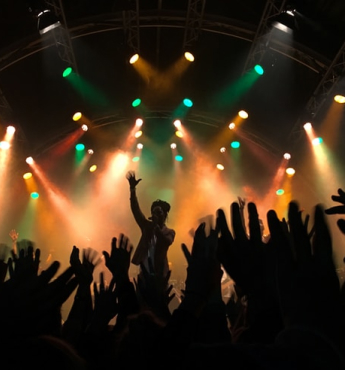
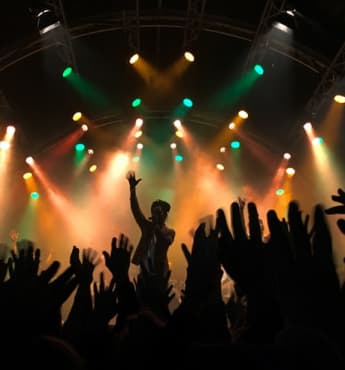
Compressed all images

diff --git a/css/style.min.css b/css/style.min.css
@@ -1,1 +1,1 @@
-*{box-sizing:border-box}:root{scroll-behavior:smooth}html{font-size:16px}body{margin:0;font-size:16px;color:#222;line-height:1.53;font-weight:400;font-family:"Raleway",sans-serif;overflow-x:hidden}body.no-scroll{overflow:hidden}h1,h2,h3,h4,h5,h6{margin:0;font-family:"Montserrat",sans-serif;text-transform:capitalize;font-weight:700}h1{font-size:72px}h2{font-size:34px}h3{font-size:24px;font-weight:800}h4{font-size:24px;font-family:"Raleway",sans-serif}p{margin:0}ul,ol{margin:0;padding:0;list-style:none}a{text-decoration:none;display:inline-block;color:#fff}img{width:100%;display:block;object-fit:cover;height:100%}button{cursor:pointer;box-shadow:none;border:none}input,textarea{color:inherit;font-size:inherit;font-weight:inherit;font-family:inherit}@media(max-width: 1000px){body{font-size:15px}h1{font-size:60px}h2{font-size:30px}h3{font-size:21px}h4{font-size:20px}}@media(max-width: 600px){h1{font-size:35px;line-height:1.3}h2{font-size:25px}h3{font-size:18px}h4{font-size:16px}}@media(max-width: 400px){body{font-size:14px}}@font-face{font-family:"icomoon";src:url("../fonts/icomoon.woff") format("woff");font-weight:normal;font-style:normal;font-display:block}[class^=icon-],[class*=" icon-"]{font-family:"icomoon" !important;font-style:normal;font-weight:normal;font-variant:normal;text-transform:none;line-height:1;-webkit-font-smoothing:antialiased;-moz-osx-font-smoothing:grayscale}.icon-Email:before{content:"";color:#ffa3a3}.icon-Facebook:before{content:"";color:#fff}.icon-Instagram:before{content:"";color:#fff}.icon-Linkedin:before{content:"";color:#fff}.icon-Map-Pin:before{content:"";color:#ffa3a3}.icon-Phone:before{content:"";color:#ffa3a3}.icon-Twitter:before{content:"";color:#fff}.icon-Play:before{content:""}.icon-folk:before{content:"";color:#fc5252}.icon-instrumental:before{content:"";color:#381ddb}.icon-jazz:before{content:"";color:#84c4ff}.icon-pop:before{content:"";color:#db841d}.icon-rock:before{content:"";color:#c00096}.container{max-width:1200px;margin:0 auto;padding:0 15px}.btn{transition:.1s;min-height:3.5rem;border-radius:8px;background:#381ddb;box-shadow:0px 10px 30px 0px rgba(56,29,219,.2);padding:0 2.125em;color:#fff;font-family:"Montserrat",sans-serif;font-size:inherit;font-weight:700}.btn--white{background:#fff;color:#381ddb;line-height:3.5}.btn--arrow{margin-left:auto;min-height:3.75em;display:flex;gap:12px;align-items:center}.btn--arrow span{width:1.5em;height:1.5em;background:url(../icons/arrow.svg)}.btn--orange{background:#fc5252}.btn--video{padding:0 0 0 4.75rem;font-size:1.25rem;font-weight:800;background:rgba(0,0,0,0) url(../icons/Play.svg) left center/contain no-repeat}.btn--transparent{background:rgba(0,0,0,0);color:#381ddb;box-shadow:none;border:1px solid #381ddb}.btn--transparent:hover{background:#381ddb;color:#fff}.btn--form{width:100%;margin-top:10px}.btn:active{transform:scale(0.99)}.btn--schedule{color:#000;padding:0 2em 0 0;min-height:1.5em;box-shadow:none;background:rgba(0,0,0,0) url(../icons/schedule/Play_black.svg) right/contain no-repeat}.btn--schedule--mobile{display:none}.btn--red{color:#fc5252;background:url(../icons/schedule/Live\ Camera.svg) right/contain no-repeat}.btn--clock{background:url(../../icons/schedule/Clock.svg) right/contain no-repeat}@media(max-width: 900px){.btn--schedule{display:none}.btn--schedule-mobile{display:block;margin-right:auto}}@media(min-width: 901px){.btn--schedule-mobile{display:none}}@media(max-width: 768px){.btn--white{box-shadow:none}}@media(max-width: 500px){.btn{min-height:3rem}.btn--orange{padding:0 1rem}.btn--video{font-size:.9rem;padding-left:3rem}.btn--schedule-mobile{font-size:12px;background-size:18px}}@keyframes rotation{100%{transform:rotate(360deg)}}.menu--footer .menu__list{gap:30px}.menu__list{display:flex;align-items:center;gap:40px}.menu__link{text-transform:uppercase;font-size:14px;font-family:Montserrat}.menu__item--dropdown{position:relative;cursor:pointer;padding-right:16px}.menu__item--dropdown::after{content:"";width:8px;height:8px;background:url(../icons/arrow-down.svg);position:absolute;top:9px;right:0;transition:.2s}.menu__item--dropdown:hover .dropdown{visibility:visible;opacity:1}.menu__item--dropdown:hover::after{transform:rotateX(180deg)}.dropdown{background:#fff;position:absolute;width:max-content;min-width:86px;border-radius:7px;overflow:hidden;visibility:hidden;opacity:0;transition:.2s}.dropdown__link{color:#381ddb;padding:3px 5px;width:100%;transition:.2s}.dropdown__link:hover{background:#e8e8e8}@media(max-width: 1000px){.menu__list{gap:20px}}@media(max-width: 768px){.menu--header{background:#321ac5;position:fixed;top:0;right:-100%;height:100vh;width:50%;transition:.4s}.menu--header.active{right:0}.menu--header .menu__list{display:flex;flex-direction:column;align-items:flex-end;gap:45px;height:100vh;justify-content:center;padding-right:30px}.menu--header .menu__link{text-transform:uppercase;font-size:17px}.menu__item--dropdown{padding:0}.menu__item--dropdown:hover .dropdown{visibility:hidden;opacity:0}.menu__item--dropdown::after{content:none}}.burger{display:none}.burger.active span:nth-child(1){transform:rotate(-45deg) translate(0px, 5px)}.burger.active span:nth-child(2){display:none}.burger.active span:nth-child(3){transform:rotate(45deg) translate(0px, -5px)}.burger span{transition:.2s;display:block;width:26px;height:3px;background:#fff;margin-bottom:4px}.burger span:last-child{margin:0}@media(max-width: 768px){.burger{display:block;cursor:pointer}}.overlay{display:none;width:50%;height:100vh;position:fixed;top:0;left:-100%;background:rgba(0,0,0,.4941176471);transition:.4s}.overlay.active{left:0}@media(max-width: 768px){.overlay{display:block}}.socials{font-size:30px;display:flex;gap:30px}.socials__link{display:flex;transition:.2s}.socials__link:hover{transform:scale(1.2);transition:.2s}.header{position:absolute;top:0;left:0;width:100%;padding:32px 0;z-index:2}.header__wrapper{display:flex;justify-content:space-between;align-items:center;gap:25px}@media(max-width: 768px){.header{padding:15px 0;position:fixed;transition:.3s}.logo{width:110px}}.promo{background:url(../images/promo/promo-bg.webp) center center/cover no-repeat;text-align:center;color:#fff;padding:225px 0 53px;height:100vh;position:relative}.promo__wrapper{padding:0 15px;max-width:970px;width:100%;margin:0 auto;position:absolute;top:45%;left:50%;transform:translate(-50%, -50%)}.promo__title-decor{color:#ffa3a3}.promo__text{font-size:24px;margin:40px 0}.promo__inner{display:flex;justify-content:center;gap:40px}.promo__timer{position:absolute;bottom:53px;left:50%;transform:translateX(-50%);font-family:Montserrat;font-size:144px;font-weight:700;line-height:normal;-webkit-text-stroke:2px rgba(255,255,255,.5);color:rgba(0,0,0,0);max-width:1450px;width:100%}.promo__timer-value{position:absolute;bottom:0}.promo__timer-value--days{left:0;padding-left:15px}.promo__timer-value--hours{left:26%}.promo__timer-value--minutes{right:24%}.promo__timer-value--seconds{right:0;padding-right:15px}@media(max-width: 1300px){.promo__timer{font-size:11vw}}@media(max-width: 600px){.promo__text{font-size:20px}.promo__inner{gap:30px}}.category{overflow:hidden;padding:120px 0;position:relative}.category::after{content:"";position:absolute;width:100%;height:72%;top:170px;right:50%;transform:translateX(50%);background:url(../images/categories/categories-decor.svg) center center/contain no-repeat}.category__title{margin-bottom:60px}.category__title span{color:#381ddb}.category__slider{margin-left:-25px;margin-right:-25px}.category__slide{border-radius:24px;padding:90px 20px 36px 60px;transition:.1s}.category__slide-icon{display:inline-block;margin-bottom:30px;font-size:40px}.category__slide:hover{color:#fff}.category__slide:hover .category__slide-icon{transform:rotate(360deg);transition:.7s}.category__slide:hover .category__slide-icon::before{color:#fff}.category__slide-inner{width:190px}.category__slide--orange{background:rgba(219,132,29,.1)}.category__slide--orange:hover{background:#db841d}.category__slide--red{background:rgba(252,82,82,.1)}.category__slide--red:hover{background:#fc5252}.category__slide--red:hover::before{background:url(../icons/swiper/folk_w.svg)}.category__slide--blue{background:rgba(56,29,219,.1)}.category__slide--blue:hover{background:#381ddb}.category__slide--blue:hover::before{background:url(../icons/swiper/instrumental_w.svg)}.category__slide--pink{background:rgba(192,0,150,.1)}.category__slide--pink:hover{background:#c00096}.category__slide--pink:hover::before{background:url(../icons/swiper/rock_w.svg)}.category__slide--light-blue{background:rgba(132,196,255,.1)}.category__slide--light-blue:hover{background:#84c4ff}.category__slide--light-blue:hover::before{background:url(../icons/swiper/jazz_w.svg)}.category__slide-icon{max-width:40px;margin-bottom:30px}.category__slide-title{margin-bottom:20px}@media(max-width: 1200px){.category::after{background:none}}@media(max-width: 1000px){.category{padding:90px 0}}@media(max-width: 600px){.category__slider{margin:0;padding-left:15px}}@media(max-width: 420px){.category__slide{padding:50px 20px 30px 30px}}.about{padding:120px 0 155px}.about__wrapper{display:flex;gap:140px;align-items:center;position:relative}.about__wrapper::after{content:"";position:absolute;width:181px;height:167px;bottom:-120px;left:-296px;background:url(../images/about/music-decor.svg) center center/contain no-repeat}.about__box{position:relative;max-width:460px;width:100%}.about__img{border-radius:24px}.about__img--top{position:absolute;right:-15.2%;bottom:-15.2%}.about__inner{max-width:570px}.about__title{margin-bottom:32px}.about__text{margin-bottom:80px}@media(max-width: 1000px){.about{padding:90px 0 116px}}@media(max-width: 900px){.about__wrapper{flex-direction:column-reverse;gap:60px}.about__inner{max-width:654px}.about__text{text-align:justify}.about__box{max-width:350px}.about__button{display:flex;justify-content:flex-end}}@media(max-width: 600px){.about__box{max-width:300px}.about__img--top{right:-8%;bottom:-8%}}.singers{overflow:hidden;padding:155px 0 160px}.singers__wrapper{display:flex;align-items:center;gap:30px;position:relative}.singers__wrapper::after{z-index:-1;content:"";position:absolute;width:157%;height:103%;bottom:-26%;right:-30%;background:url(../../images/singers/singers-decor.svg) center center/contain no-repeat}.singers__inner{max-width:470px}.singers__title{margin-bottom:32px}.singers__text{margin-bottom:80px}.singers__box{transform:translateY(35px)}.singers__box-inner{display:flex}.singers__img{border-radius:24px}.singers__img--1{transform:translate(-42px, 25px)}.singers__img--2{transform:translate(-115px, 0px)}.singers__img--3{transform:translate(-51px, -41px)}.singers__img--4{transform:translate(-124px, -65px)}@media(max-width: 1000px){.singers{padding:116px 0 120px}}@media(max-width: 900px){.singers__wrapper{flex-direction:column}.singers__wrapper picture{transform:none}.singers__inner{max-width:654px}.singers__text{text-align:justify}.singers__button{text-align:-webkit-right}.singers__box-inner{margin-bottom:30px;gap:30px}}@media(max-width: 400px){.singers__box-inner{margin-bottom:20px;gap:20px}}.schedule{padding:160px 0 120px;background:linear-gradient(180deg, rgba(56, 29, 219, 0.05) 0%, rgba(56, 29, 219, 0) 100%)}.schedule__title{margin-bottom:60px}.schedule__tabs{display:grid;grid-template-columns:1fr 1fr 1fr;margin-bottom:40px;gap:30px}.schedule__tab{cursor:pointer;border-bottom:4px solid rgba(56,29,219,.1);font-family:Montserrat}.schedule__tab-day{font-size:24px;font-weight:800;opacity:.5}.schedule__tab-date{font-size:16px;font-weight:700;opacity:.2}.schedule__tab.active{cursor:default;border-color:#381ddb}.schedule__tab.active .schedule__tab-day{color:#381ddb;opacity:1}.schedule__tab.active .schedule__tab-date{color:#381ddb;opacity:.5}.schedule .box{width:300px;transition:.5s;background:#008b8b;height:80px}.schedule .box:hover{width:500px}.schedule__tabs-content{overflow:hidden;display:flex;border-radius:24px}.schedule__tab-content{transition:.3s;overflow:hidden;border-radius:24px;border:1px solid #e0e0e0;min-width:100%;font-weight:700}.schedule__tab-content-row{display:grid;grid-template-columns:1fr 1.6fr 1.2fr .6fr;gap:30px;align-items:center;padding:40px}.schedule__tab-content-row:first-child{background:rgba(56,29,219,.05);font-size:24px}.schedule__tab-content-row+.schedule__tab-content-row{border-top:1px solid #e0e0e0}.schedule__tab-content-duration{font-weight:400}.schedule__tab-content-speakers{display:flex;flex-direction:column;gap:32px}.schedule__tab-content-speaker{display:flex;gap:10px;align-items:center}.schedule__tab-content-avatar{width:56px;height:56px;border-radius:50%}.schedule__tab-content-location{opacity:.5}.schedule__tab-content-review{display:flex;align-items:center;justify-content:flex-end}@media(max-width: 1000px){.schedule{padding:90px 0 90px}}@media(max-width: 900px){.schedule__tab-content-row{grid-template-columns:.6fr 1.6fr 1fr;gap:15px;padding:10px}.schedule__tab-content-speakers{gap:20px}.schedule__tab-content-avatar{display:none}}@media(max-width: 600px){.schedule__title{margin-bottom:45px}.schedule__tab{border-width:2px}.schedule__tab-day{font-size:21px}.schedule__tab-date{font-size:14px}.schedule__tab-content-row{font-size:12px}.schedule__tab-content-row:first-child{font-size:20px;justify-items:center}}.tickets{padding:120px 0 120px}.tickets__title{text-align:center;margin-bottom:60px}.tickets__wrapper{display:grid;grid-template-columns:repeat(3, 1fr);gap:30px}.tickets__card{padding:30px;text-align:center;box-shadow:0px 20px 100px 0px rgba(34,34,34,.15);border-radius:20px;position:relative;overflow:hidden;max-width:370px;width:100%}.tickets__card:nth-child(odd){margin-left:auto}.tickets__card::before{content:"";position:absolute;top:0;left:0;height:4px;width:100%}.tickets__card--black::before{background:#222}.tickets__card--blue .tickets__card-title,.tickets__card--blue .tickets__card-price{color:#381ddb}.tickets__card--blue::before{background:#381ddb}.tickets__card--orange .tickets__card-title,.tickets__card--orange .tickets__card-price{color:#fc5252}.tickets__card--orange::before{background:#fc5252}.tickets__card-title{margin-bottom:15px}.tickets__card-price{font-family:Montserrat;font-size:60px;font-weight:700;line-height:normal}.tickets__card-benefits{margin:30px 0}.tickets__card-benefit{margin-bottom:15px}.tickets__card-benefit--disabled{opacity:.5}@media(max-width: 1100px){.tickets__wrapper{grid-template-columns:repeat(2, 1fr)}}@media(max-width: 1000px){.tickets{padding:90px 0 90px}}@media(max-width: 700px){.tickets__wrapper{grid-template-columns:1fr}.tickets__card{margin:0 auto}}.sponsors{text-align:center;padding:120px 0}.sponsors__title{margin-bottom:60px}.sponsors__img{width:58%;height:auto}.sponsors__wrapper{display:grid;grid-template-columns:repeat(4, 1fr);justify-items:center;align-items:center;margin-bottom:80px;row-gap:60px}@media(max-width: 1000px){.sponsors{padding:90px 0}}@media(max-width: 700px){.sponsors__wrapper{row-gap:30px}.sponsors__img{width:70%}}.testimonials{padding:120px 0 240px}.testimonials__title{text-align:center;margin-bottom:61px}.testimonials__slide{text-align:center;opacity:.3;transition:.1s;padding-top:10px}.testimonials .swiper-slide-active .testimonials__slide{opacity:1;transform:translateY(-10px)}.testimonials__slider .swiper-pagination{display:flex;justify-content:center;align-items:center}.testimonials__slider .swiper-pagination-bullet-active{width:10px;height:10px;background:#381ddb;transition:.2s}.testimonials__slide-head{background:rgba(34,34,34,.03);padding:50px 60px 110px}.testimonials__slide-text{position:relative;opacity:.7}.testimonials__slide-text::before,.testimonials__slide-text::after{content:"";position:absolute;width:30px;height:30px;background:url(../icons/testimonials/Quotes_start.svg)}.testimonials__slide-text::before{top:-30px;left:-30px}.testimonials__slide-text::after{bottom:-30px;right:-30px;transform:rotate(180deg)}.testimonials__slide-footer{display:flex;flex-direction:column;align-items:center;transform:translateY(-55px)}.testimonials__slide-avatar{border-radius:50%;margin-bottom:20px;width:120px;height:120px}.testimonials__slide-name{font-family:"Montserrat";font-size:20px;font-weight:800;line-height:1.4;margin-bottom:8px;width:120%}.testimonials__slide-contact{color:#381ddb}@media(max-width: 1500px){.testimonials__slide-head{padding:40px 45px 80px}}@media(max-width: 1000px){.testimonials{padding:90px 0 180px}.testimonials__slide-text::before,.testimonials__slide-text::after{width:20px;height:20px;background-size:contain}.testimonials__slide-text::before{top:-5px;left:-15px}.testimonials__slide-text::after{bottom:-5px;right:-15px}.testimonials__slide-avatar{width:90px;height:90px}}@media(max-width: 800px){.testimonials__slide-head{padding:20px 20px 60px}}@media(min-width: 500px){.testimonials__slider .swiper-pagination{display:none}}.gallery{padding:160px 0 240px;background:linear-gradient(180deg, rgba(252, 82, 82, 0.05) 0%, rgba(252, 82, 82, 0) 100%)}.gallery__title{margin-bottom:60px;position:relative}.gallery__title::before{content:"";position:absolute;width:431px;height:431px;top:-160px;left:130px;background:url(../images/gallery/instagram.svg)}.gallery__slider .swiper-slide-prev .gallery__slide,.gallery__slider .swiper-slide-active .gallery__slide,.gallery__slider .swiper-slide-next .gallery__slide{opacity:1}.gallery__slider .swiper-button-prev,.gallery__slider .swiper-button-next{transform:translateX(-5vw);top:9vw;width:56px;height:56px;border-radius:50%;background:#fff url(../images/gallery/Arrow.svg) center center/34px no-repeat}.gallery__slider .swiper-button-prev::after,.gallery__slider .swiper-button-next::after{content:none}.gallery__slider .swiper-button-prev{rotate:180deg}.gallery__slide{opacity:.5;transition:.2s}.gallery__slide-inner{display:flex;gap:40px;margin-bottom:8px}.gallery__slide-media{margin-bottom:24px;height:18.5vw}.gallery__slide-number{padding-left:32px;font-family:Montserrat;font-weight:700}.gallery__slide-number--heart{background:url(../images/gallery/Heart.svg) left center/contain no-repeat}.gallery__slide-number--chat{background:url(../images/gallery/Chat.svg) left center/contain no-repeat}.gallery__slide-text{margin-bottom:8px}.gallery__slide-tags{opacity:.5}@media(max-width: 1000px){.gallery__slide-media{height:23vw}.gallery .swiper-button-prev,.gallery .swiper-button-next{transform:translateX(-9vw);top:13vw;width:4.47vw;height:4.47vw;background-size:3.1vw}}@media(max-width: 800px){.gallery__slide-media{height:35vw}.gallery .swiper-button-prev,.gallery .swiper-button-next{transform:translateX(-7vw);top:19vw}.gallery__slider .swiper-slide-prev .gallery__slide,.gallery__slider .swiper-slide-next .gallery__slide{opacity:.5}}@media(max-width: 600px){.gallery__title{margin-bottom:30px}.gallery__title::before{width:290px;height:290px;top:-160px;left:20px;background-size:contain}.gallery__slide-inner{gap:10px}.gallery__slide-number{padding-left:20px;font-size:10px}}@media(max-width: 450px){.gallery__slide-media{height:55vw}.gallery .swiper-button-prev,.gallery .swiper-button-next{transform:translateX(-1vw);top:29vw;width:6.47vw;height:6.47vw;background-size:4.1vw}}.contacts__wrapper{display:flex;height:34.5vw}.contacts__left{display:flex;align-items:center;background:#381ddb url(../images/contacts/shape.svg) right bottom/224px no-repeat;width:44%;padding:20px 22px 88px 57px}.contacts__head{color:#fff;margin-bottom:80px}.contacts__text{opacity:.7;font-size:24px}.contacts__list{font-family:Montserrat;font-size:16px;font-weight:700}.contacts__item{margin-bottom:40px;display:flex;align-items:center;gap:8px}.contacts__font{font-size:24px}.contacts__right{width:56%;background:rgba(34,34,34,.03) url(../images/contacts/shape_right.svg) right 56px bottom/72px no-repeat;padding:40px 93px;display:flex;align-items:center}.contacts__form{max-width:570px;width:100%}.contacts__form-title{margin-bottom:40px}.contacts__form-group{display:flex;flex-direction:column;margin-bottom:30px}.contacts__form-group:has(.contacts__form-input:focus) .contacts__form-label{color:#381ddb}.contacts__form-label{font-size:12px;font-weight:700;opacity:.7}.contacts__form-input{border:none;border-bottom:1px solid #e0e0e0;height:32px;outline:none;background:rgba(0,0,0,0)}.contacts__form-input--message{resize:none;height:104px}.contacts__form-input:focus{border-bottom:1px solid #381ddb}@media(max-width: 1600px){.contacts__wrapper{height:auto}}@media(max-width: 1300px){.contacts__left,.contacts__right{width:50%}.contacts__right{background:rgba(34,34,34,.03)}}@media(max-width: 1000px){.contacts__wrapper{flex-direction:column}.contacts__left,.contacts__right{width:100%;padding:40px 50px}.contacts__left{background-size:15%}.contacts__item{margin-bottom:30px}}.footer{background:#222;padding:40px 0 30px}.footer .logo{margin-bottom:55px}.footer__wrapper{display:flex;justify-content:space-between;align-items:center}.footer__inner{max-width:440px;width:100%;display:flex;justify-content:space-between;align-items:center}.footer__copy{color:#fff;opacity:.3}@media(max-width: 1000px){.footer{padding:25px 35px}.footer .menu__list{margin-bottom:20px}.footer__wrapper{flex-direction:column;align-items:flex-start}.footer__inner{max-width:100%}.socials{margin-left:-7px}}@media(max-width: 600px){.footer .logo{margin-bottom:35px}.footer__inner,.footer .menu__list{flex-direction:column;align-items:flex-start;gap:10px}.footer .menu__link{padding:5px 0}.footer__inner .socials{margin-bottom:10px;gap:40px}}.wrapper{background:#ccc;border:2px solid #000;padding:10px;max-width:1000px;margin:0 auto;display:grid;grid-template-columns:1fr 1fr 1fr;grid-auto-rows:minmax(150px, auto);gap:10px}.item{background:#ff8c00;border:2px solid #000;display:flex;align-items:center;justify-content:center;font-size:30px}.item:nth-child(2){background:red}.item--4{grid-column:1/3;grid-row:2/4}/*# sourceMappingURL=style.min.css.map */
+*{box-sizing:border-box}:root{scroll-behavior:smooth}html{font-size:16px}body{margin:0;font-size:16px;color:#222;line-height:1.53;font-weight:400;font-family:"Raleway",sans-serif;overflow-x:hidden}body.no-scroll{overflow:hidden}h1,h2,h3,h4,h5,h6{margin:0;font-family:"Montserrat",sans-serif;text-transform:capitalize;font-weight:700}h1{font-size:72px}h2{font-size:34px}h3{font-size:24px;font-weight:800}h4{font-size:24px;font-family:"Raleway",sans-serif}p{margin:0}ul,ol{margin:0;padding:0;list-style:none}a{text-decoration:none;display:inline-block;color:#fff}img{width:100%;display:block;object-fit:cover;height:100%}button{cursor:pointer;box-shadow:none;border:none}input,textarea{color:inherit;font-size:inherit;font-weight:inherit;font-family:inherit}@media(max-width: 1000px){body{font-size:15px}h1{font-size:60px}h2{font-size:30px}h3{font-size:21px}h4{font-size:20px}}@media(max-width: 600px){h1{font-size:35px;line-height:1.3}h2{font-size:25px}h3{font-size:18px}h4{font-size:16px}}@media(max-width: 400px){body{font-size:14px}}@font-face{font-family:"icomoon";src:url("../fonts/icomoon.woff") format("woff");font-weight:normal;font-style:normal;font-display:block}[class^=icon-],[class*=" icon-"]{font-family:"icomoon" !important;font-style:normal;font-weight:normal;font-variant:normal;text-transform:none;line-height:1;-webkit-font-smoothing:antialiased;-moz-osx-font-smoothing:grayscale}.icon-Email:before{content:"";color:#ffa3a3}.icon-Facebook:before{content:"";color:#fff}.icon-Instagram:before{content:"";color:#fff}.icon-Linkedin:before{content:"";color:#fff}.icon-Map-Pin:before{content:"";color:#ffa3a3}.icon-Phone:before{content:"";color:#ffa3a3}.icon-Twitter:before{content:"";color:#fff}.icon-Play:before{content:""}.icon-folk:before{content:"";color:#fc5252}.icon-instrumental:before{content:"";color:#381ddb}.icon-jazz:before{content:"";color:#84c4ff}.icon-pop:before{content:"";color:#db841d}.icon-rock:before{content:"";color:#c00096}.container{max-width:1200px;margin:0 auto;padding:0 15px}.btn{transition:.1s;min-height:3.5rem;border-radius:8px;background:#381ddb;box-shadow:0px 10px 30px 0px rgba(56,29,219,.2);padding:0 2.125em;color:#fff;font-family:"Montserrat",sans-serif;font-size:inherit;font-weight:700}.btn--white{background:#fff;color:#381ddb;line-height:3.5}.btn--arrow{margin-left:auto;min-height:3.75em;display:flex;gap:12px;align-items:center}.btn--arrow span{width:1.5em;height:1.5em;background:url(../icons/arrow.svg)}.btn--orange{background:#fc5252}.btn--video{padding:0 0 0 4.75rem;font-size:1.25rem;font-weight:800;background:rgba(0,0,0,0) url(../icons/Play.svg) left center/contain no-repeat}.btn--transparent{background:rgba(0,0,0,0);color:#381ddb;box-shadow:none;border:1px solid #381ddb}.btn--transparent:hover{background:#381ddb;color:#fff}.btn--form{width:100%;margin-top:10px}.btn:active{transform:scale(0.99)}.btn--schedule{color:#000;padding:0 2em 0 0;min-height:1.5em;box-shadow:none;background:rgba(0,0,0,0) url(../icons/schedule/Play_black.svg) right/contain no-repeat}.btn--schedule--mobile{display:none}.btn--red{color:#fc5252;background:url(../icons/schedule/Live\ Camera.svg) right/contain no-repeat}.btn--clock{background:url(../../icons/schedule/Clock.svg) right/contain no-repeat}@media(max-width: 900px){.btn--schedule{display:none}.btn--schedule-mobile{display:block;margin-right:auto}}@media(min-width: 901px){.btn--schedule-mobile{display:none}}@media(max-width: 768px){.btn--white{box-shadow:none}}@media(max-width: 500px){.btn{min-height:3rem}.btn--orange{padding:0 1rem}.btn--video{font-size:.9rem;padding-left:3rem}.btn--schedule-mobile{font-size:12px;background-size:18px}}@keyframes rotation{100%{transform:rotate(360deg)}}.menu--footer .menu__list{gap:30px}.menu__list{display:flex;align-items:center;gap:40px}.menu__link{text-transform:uppercase;font-size:14px;font-family:Montserrat}.menu__item--dropdown{position:relative;cursor:pointer;padding-right:16px}.menu__item--dropdown::after{content:"";width:8px;height:8px;background:url(../icons/arrow-down.svg);position:absolute;top:9px;right:0;transition:.2s}.menu__item--dropdown:hover .dropdown{visibility:visible;opacity:1}.menu__item--dropdown:hover::after{transform:rotateX(180deg)}.dropdown{background:#fff;position:absolute;width:max-content;min-width:86px;border-radius:7px;overflow:hidden;visibility:hidden;opacity:0;transition:.2s}.dropdown__link{color:#381ddb;padding:3px 5px;width:100%;transition:.2s}.dropdown__link:hover{background:#e8e8e8}@media(max-width: 1000px){.menu__list{gap:20px}}@media(max-width: 768px){.menu--header{background:#321ac5;position:fixed;top:0;right:-100%;height:100vh;width:50%;transition:.4s}.menu--header.active{right:0}.menu--header .menu__list{display:flex;flex-direction:column;align-items:flex-end;gap:45px;height:100vh;justify-content:center;padding-right:30px}.menu--header .menu__link{text-transform:uppercase;font-size:17px}.menu__item--dropdown{padding:0}.menu__item--dropdown:hover .dropdown{visibility:hidden;opacity:0}.menu__item--dropdown::after{content:none}}.burger{display:none}.burger.active span:nth-child(1){transform:rotate(-45deg) translate(0px, 5px)}.burger.active span:nth-child(2){display:none}.burger.active span:nth-child(3){transform:rotate(45deg) translate(0px, -5px)}.burger span{transition:.2s;display:block;width:26px;height:3px;background:#fff;margin-bottom:4px}.burger span:last-child{margin:0}@media(max-width: 768px){.burger{display:block;cursor:pointer}}.overlay{display:none;width:50%;height:100vh;position:fixed;top:0;left:-100%;background:rgba(0,0,0,.4941176471);transition:.4s}.overlay.active{left:0}@media(max-width: 768px){.overlay{display:block}}.socials{font-size:30px;display:flex;gap:30px}.socials__link{display:flex;transition:.2s}.socials__link:hover{transform:scale(1.2);transition:.2s}.header{position:absolute;top:0;left:0;width:100%;padding:32px 0;z-index:2}.header__wrapper{display:flex;justify-content:space-between;align-items:center;gap:25px}@media(max-width: 768px){.header{padding:15px 0;position:fixed;transition:.3s}.logo{width:110px}}.promo{background:url(../images/promo/promo-bg.webp) center center/cover no-repeat;text-align:center;color:#fff;padding:225px 0 53px;height:100vh;position:relative}.promo__wrapper{padding:0 15px;max-width:970px;width:100%;margin:0 auto;position:absolute;top:45%;left:50%;transform:translate(-50%, -50%)}.promo__title-decor{color:#ffa3a3}.promo__text{font-size:24px;margin:40px 0}.promo__inner{display:flex;justify-content:center;gap:40px}.promo__timer{position:absolute;bottom:53px;left:50%;transform:translateX(-50%);font-family:Montserrat;font-size:144px;font-weight:700;line-height:normal;-webkit-text-stroke:2px rgba(255,255,255,.5);color:rgba(0,0,0,0);max-width:1450px;width:100%}.promo__timer-value{position:absolute;bottom:0}.promo__timer-value--days{left:0;padding-left:15px}.promo__timer-value--hours{left:26%}.promo__timer-value--minutes{right:24%}.promo__timer-value--seconds{right:0;padding-right:15px}@media(max-width: 1300px){.promo__timer{font-size:11vw}}@media(max-width: 600px){.promo{background:url(../images/promo/promo-bg-mobile.webp)}.promo__text{font-size:20px}.promo__inner{gap:30px}}.category{overflow:hidden;padding:120px 0;position:relative}.category::after{content:"";position:absolute;width:100%;height:72%;top:170px;right:50%;transform:translateX(50%);background:url(../images/categories/categories-decor.svg) center center/contain no-repeat}.category__title{margin-bottom:60px}.category__title span{color:#381ddb}.category__slider{margin-left:-25px;margin-right:-25px}.category__slide{border-radius:24px;padding:90px 20px 36px 60px;transition:.1s}.category__slide-icon{display:inline-block;margin-bottom:30px;font-size:40px}.category__slide:hover{color:#fff}.category__slide:hover .category__slide-icon{transform:rotate(360deg);transition:.7s}.category__slide:hover .category__slide-icon::before{color:#fff}.category__slide-inner{width:190px}.category__slide--orange{background:rgba(219,132,29,.1)}.category__slide--orange:hover{background:#db841d}.category__slide--red{background:rgba(252,82,82,.1)}.category__slide--red:hover{background:#fc5252}.category__slide--red:hover::before{background:url(../icons/swiper/folk_w.svg)}.category__slide--blue{background:rgba(56,29,219,.1)}.category__slide--blue:hover{background:#381ddb}.category__slide--blue:hover::before{background:url(../icons/swiper/instrumental_w.svg)}.category__slide--pink{background:rgba(192,0,150,.1)}.category__slide--pink:hover{background:#c00096}.category__slide--pink:hover::before{background:url(../icons/swiper/rock_w.svg)}.category__slide--light-blue{background:rgba(132,196,255,.1)}.category__slide--light-blue:hover{background:#84c4ff}.category__slide--light-blue:hover::before{background:url(../icons/swiper/jazz_w.svg)}.category__slide-icon{max-width:40px;margin-bottom:30px}.category__slide-title{margin-bottom:20px}@media(max-width: 1200px){.category::after{background:none}}@media(max-width: 1000px){.category{padding:90px 0}}@media(max-width: 600px){.category__slider{margin:0;padding-left:15px}}@media(max-width: 420px){.category__slide{padding:50px 20px 30px 30px}}.about{padding:120px 0 155px}.about__wrapper{display:flex;gap:140px;align-items:center;position:relative}.about__wrapper::after{content:"";position:absolute;width:181px;height:167px;bottom:-120px;left:-296px;background:url(../images/about/music-decor.svg) center center/contain no-repeat}.about__box{position:relative;max-width:460px;width:100%}.about__img{border-radius:24px}.about__img--top{position:absolute;right:-15.2%;bottom:-15.2%}.about__inner{max-width:570px}.about__title{margin-bottom:32px}.about__text{margin-bottom:80px}@media(max-width: 1000px){.about{padding:90px 0 116px}}@media(max-width: 900px){.about__wrapper{flex-direction:column-reverse;gap:60px}.about__inner{max-width:654px}.about__text{text-align:justify}.about__box{max-width:350px}.about__button{display:flex;justify-content:flex-end}}@media(max-width: 600px){.about__box{max-width:300px}.about__img--top{right:-8%;bottom:-8%}}.singers{overflow:hidden;padding:155px 0 160px}.singers__wrapper{display:flex;align-items:center;gap:30px;position:relative}.singers__wrapper::after{z-index:-1;content:"";position:absolute;width:157%;height:103%;bottom:-26%;right:-30%;background:url(../../images/singers/singers-decor.svg) center center/contain no-repeat}.singers__inner{max-width:470px}.singers__title{margin-bottom:32px}.singers__text{margin-bottom:80px}.singers__box{transform:translateY(35px)}.singers__box-inner{display:flex}.singers__img{border-radius:24px}.singers__img--1{transform:translate(-42px, 25px)}.singers__img--2{transform:translate(-115px, 0px)}.singers__img--3{transform:translate(-51px, -41px)}.singers__img--4{transform:translate(-124px, -65px)}@media(max-width: 1000px){.singers{padding:116px 0 120px}}@media(max-width: 900px){.singers__wrapper{flex-direction:column}.singers__wrapper picture{transform:none}.singers__inner{max-width:654px}.singers__text{text-align:justify}.singers__button{text-align:-webkit-right}.singers__box-inner{margin-bottom:30px;gap:30px}}@media(max-width: 400px){.singers__box-inner{margin-bottom:20px;gap:20px}}.schedule{padding:160px 0 120px;background:linear-gradient(180deg, rgba(56, 29, 219, 0.05) 0%, rgba(56, 29, 219, 0) 100%)}.schedule__title{margin-bottom:60px}.schedule__tabs{display:grid;grid-template-columns:1fr 1fr 1fr;margin-bottom:40px;gap:30px}.schedule__tab{cursor:pointer;border-bottom:4px solid rgba(56,29,219,.1);font-family:Montserrat}.schedule__tab-day{font-size:24px;font-weight:800;opacity:.5}.schedule__tab-date{font-size:16px;font-weight:700;opacity:.2}.schedule__tab.active{cursor:default;border-color:#381ddb}.schedule__tab.active .schedule__tab-day{color:#381ddb;opacity:1}.schedule__tab.active .schedule__tab-date{color:#381ddb;opacity:.5}.schedule .box{width:300px;transition:.5s;background:#008b8b;height:80px}.schedule .box:hover{width:500px}.schedule__tabs-content{overflow:hidden;display:flex;border-radius:24px}.schedule__tab-content{transition:.3s;overflow:hidden;border-radius:24px;border:1px solid #e0e0e0;min-width:100%;font-weight:700}.schedule__tab-content-row{display:grid;grid-template-columns:1fr 1.6fr 1.2fr .6fr;gap:30px;align-items:center;padding:40px}.schedule__tab-content-row:first-child{background:rgba(56,29,219,.05);font-size:24px}.schedule__tab-content-row+.schedule__tab-content-row{border-top:1px solid #e0e0e0}.schedule__tab-content-duration{font-weight:400}.schedule__tab-content-speakers{display:flex;flex-direction:column;gap:32px}.schedule__tab-content-speaker{display:flex;gap:10px;align-items:center}.schedule__tab-content-avatar{width:56px;height:56px;border-radius:50%}.schedule__tab-content-location{opacity:.5}.schedule__tab-content-review{display:flex;align-items:center;justify-content:flex-end}@media(max-width: 1000px){.schedule{padding:90px 0 90px}}@media(max-width: 900px){.schedule__tab-content-row{grid-template-columns:.6fr 1.6fr 1fr;gap:15px;padding:10px}.schedule__tab-content-speakers{gap:20px}.schedule__tab-content-avatar{display:none}}@media(max-width: 600px){.schedule__title{margin-bottom:45px}.schedule__tab{border-width:2px}.schedule__tab-day{font-size:21px}.schedule__tab-date{font-size:14px}.schedule__tab-content-row{font-size:12px}.schedule__tab-content-row:first-child{font-size:20px;justify-items:center}}.tickets{padding:120px 0 120px}.tickets__title{text-align:center;margin-bottom:60px}.tickets__wrapper{display:grid;grid-template-columns:repeat(3, 1fr);gap:30px}.tickets__card{padding:30px;text-align:center;box-shadow:0px 20px 100px 0px rgba(34,34,34,.15);border-radius:20px;position:relative;overflow:hidden;max-width:370px;width:100%}.tickets__card:nth-child(odd){margin-left:auto}.tickets__card::before{content:"";position:absolute;top:0;left:0;height:4px;width:100%}.tickets__card--black::before{background:#222}.tickets__card--blue .tickets__card-title,.tickets__card--blue .tickets__card-price{color:#381ddb}.tickets__card--blue::before{background:#381ddb}.tickets__card--orange .tickets__card-title,.tickets__card--orange .tickets__card-price{color:#fc5252}.tickets__card--orange::before{background:#fc5252}.tickets__card-title{margin-bottom:15px}.tickets__card-price{font-family:Montserrat;font-size:60px;font-weight:700;line-height:normal}.tickets__card-benefits{margin:30px 0}.tickets__card-benefit{margin-bottom:15px}.tickets__card-benefit--disabled{opacity:.5}@media(max-width: 1100px){.tickets__wrapper{grid-template-columns:repeat(2, 1fr)}}@media(max-width: 1000px){.tickets{padding:90px 0 90px}}@media(max-width: 700px){.tickets__wrapper{grid-template-columns:1fr}.tickets__card{margin:0 auto}}.sponsors{text-align:center;padding:120px 0}.sponsors__title{margin-bottom:60px}.sponsors__img{width:58%;height:auto}.sponsors__wrapper{display:grid;grid-template-columns:repeat(4, 1fr);justify-items:center;align-items:center;margin-bottom:80px;row-gap:60px}@media(max-width: 1000px){.sponsors{padding:90px 0}}@media(max-width: 700px){.sponsors__wrapper{row-gap:30px}.sponsors__img{width:70%}}.testimonials{padding:120px 0 240px}.testimonials__title{text-align:center;margin-bottom:61px}.testimonials__slide{text-align:center;opacity:.3;transition:.1s;padding-top:10px}.testimonials .swiper-slide-active .testimonials__slide{opacity:1;transform:translateY(-10px)}.testimonials__slider .swiper-pagination{display:flex;justify-content:center;align-items:center}.testimonials__slider .swiper-pagination-bullet-active{width:10px;height:10px;background:#381ddb;transition:.2s}.testimonials__slide-head{background:rgba(34,34,34,.03);padding:50px 60px 110px}.testimonials__slide-text{position:relative;opacity:.7}.testimonials__slide-text::before,.testimonials__slide-text::after{content:"";position:absolute;width:30px;height:30px;background:url(../icons/testimonials/Quotes_start.svg)}.testimonials__slide-text::before{top:-30px;left:-30px}.testimonials__slide-text::after{bottom:-30px;right:-30px;transform:rotate(180deg)}.testimonials__slide-footer{display:flex;flex-direction:column;align-items:center;transform:translateY(-55px)}.testimonials__slide-avatar{border-radius:50%;margin-bottom:20px;width:120px;height:120px}.testimonials__slide-name{font-family:"Montserrat";font-size:20px;font-weight:800;line-height:1.4;margin-bottom:8px;width:120%}.testimonials__slide-contact{color:#381ddb}@media(max-width: 1500px){.testimonials__slide-head{padding:40px 45px 80px}}@media(max-width: 1000px){.testimonials{padding:90px 0 180px}.testimonials__slide-text::before,.testimonials__slide-text::after{width:20px;height:20px;background-size:contain}.testimonials__slide-text::before{top:-5px;left:-15px}.testimonials__slide-text::after{bottom:-5px;right:-15px}.testimonials__slide-avatar{width:90px;height:90px}}@media(max-width: 800px){.testimonials__slide-head{padding:20px 20px 60px}}@media(min-width: 500px){.testimonials__slider .swiper-pagination{display:none}}.gallery{padding:160px 0 240px;background:linear-gradient(180deg, rgba(252, 82, 82, 0.05) 0%, rgba(252, 82, 82, 0) 100%)}.gallery__title{margin-bottom:60px;position:relative}.gallery__title::before{content:"";position:absolute;width:431px;height:431px;top:-160px;left:130px;background:url(../images/gallery/instagram.svg)}.gallery__slider .swiper-slide-prev .gallery__slide,.gallery__slider .swiper-slide-active .gallery__slide,.gallery__slider .swiper-slide-next .gallery__slide{opacity:1}.gallery__slider .swiper-button-prev,.gallery__slider .swiper-button-next{transform:translateX(-5vw);top:9vw;width:56px;height:56px;border-radius:50%;background:#fff url(../images/gallery/Arrow.svg) center center/34px no-repeat}.gallery__slider .swiper-button-prev::after,.gallery__slider .swiper-button-next::after{content:none}.gallery__slider .swiper-button-prev{rotate:180deg}.gallery__slide{opacity:.5;transition:.2s}.gallery__slide-inner{display:flex;gap:40px;margin-bottom:8px}.gallery__slide-media{margin-bottom:24px;height:18.5vw}.gallery__slide-number{padding-left:32px;font-family:Montserrat;font-weight:700}.gallery__slide-number--heart{background:url(../images/gallery/Heart.svg) left center/contain no-repeat}.gallery__slide-number--chat{background:url(../images/gallery/Chat.svg) left center/contain no-repeat}.gallery__slide-text{margin-bottom:8px}.gallery__slide-tags{opacity:.5}@media(max-width: 1000px){.gallery__slide-media{height:23vw}.gallery .swiper-button-prev,.gallery .swiper-button-next{transform:translateX(-9vw);top:13vw;width:4.47vw;height:4.47vw;background-size:3.1vw}}@media(max-width: 800px){.gallery__slide-media{height:35vw}.gallery .swiper-button-prev,.gallery .swiper-button-next{transform:translateX(-7vw);top:19vw}.gallery__slider .swiper-slide-prev .gallery__slide,.gallery__slider .swiper-slide-next .gallery__slide{opacity:.5}}@media(max-width: 600px){.gallery__title{margin-bottom:30px}.gallery__title::before{width:290px;height:290px;top:-160px;left:20px;background-size:contain}.gallery__slide-inner{gap:10px}.gallery__slide-number{padding-left:20px;font-size:10px}}@media(max-width: 450px){.gallery__slide-media{height:55vw}.gallery .swiper-button-prev,.gallery .swiper-button-next{transform:translateX(-1vw);top:29vw;width:6.47vw;height:6.47vw;background-size:4.1vw}}.contacts__wrapper{display:flex;height:34.5vw}.contacts__left{display:flex;align-items:center;background:#381ddb url(../images/contacts/shape.svg) right bottom/224px no-repeat;width:44%;padding:20px 22px 88px 57px}.contacts__head{color:#fff;margin-bottom:80px}.contacts__text{opacity:.7;font-size:24px}.contacts__list{font-family:Montserrat;font-size:16px;font-weight:700}.contacts__item{margin-bottom:40px;display:flex;align-items:center;gap:8px}.contacts__font{font-size:24px}.contacts__right{width:56%;background:rgba(34,34,34,.03) url(../images/contacts/shape_right.svg) right 56px bottom/72px no-repeat;padding:40px 93px;display:flex;align-items:center}.contacts__form{max-width:570px;width:100%}.contacts__form-title{margin-bottom:40px}.contacts__form-group{display:flex;flex-direction:column;margin-bottom:30px}.contacts__form-group:has(.contacts__form-input:focus) .contacts__form-label{color:#381ddb}.contacts__form-label{font-size:12px;font-weight:700;opacity:.7}.contacts__form-input{border:none;border-bottom:1px solid #e0e0e0;height:32px;outline:none;background:rgba(0,0,0,0)}.contacts__form-input--message{resize:none;height:104px}.contacts__form-input:focus{border-bottom:1px solid #381ddb}@media(max-width: 1600px){.contacts__wrapper{height:auto}}@media(max-width: 1300px){.contacts__left,.contacts__right{width:50%}.contacts__right{background:rgba(34,34,34,.03)}}@media(max-width: 1000px){.contacts__wrapper{flex-direction:column}.contacts__left,.contacts__right{width:100%;padding:40px 50px}.contacts__left{background-size:15%}.contacts__item{margin-bottom:30px}}.footer{background:#222;padding:40px 0 30px}.footer .logo{margin-bottom:55px}.footer__wrapper{display:flex;justify-content:space-between;align-items:center}.footer__inner{max-width:440px;width:100%;display:flex;justify-content:space-between;align-items:center}.footer__copy{color:#fff;opacity:.3}@media(max-width: 1000px){.footer{padding:25px 35px}.footer .menu__list{margin-bottom:20px}.footer__wrapper{flex-direction:column;align-items:flex-start}.footer__inner{max-width:100%}.socials{margin-left:-7px}}@media(max-width: 600px){.footer .logo{margin-bottom:35px}.footer__inner,.footer .menu__list{flex-direction:column;align-items:flex-start;gap:10px}.footer .menu__link{padding:5px 0}.footer__inner .socials{margin-bottom:10px;gap:40px}}.wrapper{background:#ccc;border:2px solid #000;padding:10px;max-width:1000px;margin:0 auto;display:grid;grid-template-columns:1fr 1fr 1fr;grid-auto-rows:minmax(150px, auto);gap:10px}.item{background:#ff8c00;border:2px solid #000;display:flex;align-items:center;justify-content:center;font-size:30px}.item:nth-child(2){background:red}.item--4{grid-column:1/3;grid-row:2/4}/*# sourceMappingURL=style.min.css.map */

diff --git a/index.html b/index.html
@@ -191,12 +191,12 @@
           <div class="about__wrapper">
             <div class="about__box">
               <img
-                src="./images/about/music-concert-bg.jpg"
+                src="./images/about/music-concert-bg.webp"
                 alt=""
                 class="about__img"
               />
               <img
-                src="./images/about/music-concert.jpg"
+                src="./images/about/music-concert.webp"
                 alt=""
                 class="about__img about__img--top"
               />
@@ -238,7 +238,7 @@
                 <picture class="singers__img--1">
                   <source
                     media="(max-width: 900px)"
-                    srcset="./images/singers/singer_1-mobile.png"
+                    srcset="./images/singers/singer_1-mobile.webp"
                   />
                   <img
                     src="./images/singers/singer_1.png"
@@ -249,7 +249,7 @@
                 <picture class="singers__img--2">
                   <source
                     media="(max-width: 900px)"
-                    srcset="./images/singers/singer_2-mobile.png" />
+                    srcset="./images/singers/singer_2-mobile.webp" />
                   <img
                     src="./images/singers/singer_2.png"
                     alt=""
@@ -260,7 +260,7 @@
                 <picture class="singers__img--3"
                   ><source
                     media="(max-width: 900px)"
-                    srcset="./images/singers/singer_3-mobile.png" />
+                    srcset="./images/singers/singer_3-mobile.webp" />
                   <img
                     src="./images/singers/singer_3.png"
                     alt=""
@@ -269,7 +269,7 @@
                 <picture class="singers__img--4"
                   ><source
                     media="(max-width: 900px)"
-                    srcset="./images/singers/singer_4-mobile.png" />
+                    srcset="./images/singers/singer_4-mobile.webp" />
                   <img
                     src="./images/singers/singer_4.png"
                     alt=""
@@ -1317,7 +1317,7 @@
                   class="contacts__form-input contacts__form-input--message"
                 ></textarea>
               </div>
-              
+
               <button class="btn btn--form">Submit</button>
             </form>
             <!-- <div class="form__group">

diff --git a/scss/blocks/_promo.scss b/scss/blocks/_promo.scss
@@ -71,6 +71,9 @@
 }
 
 @media (max-width: 600px) {
+  .promo {
+    background: url(../images/promo/promo-bg-mobile.webp);
+  }
   .promo__text {
     font-size: 20px;
   }
